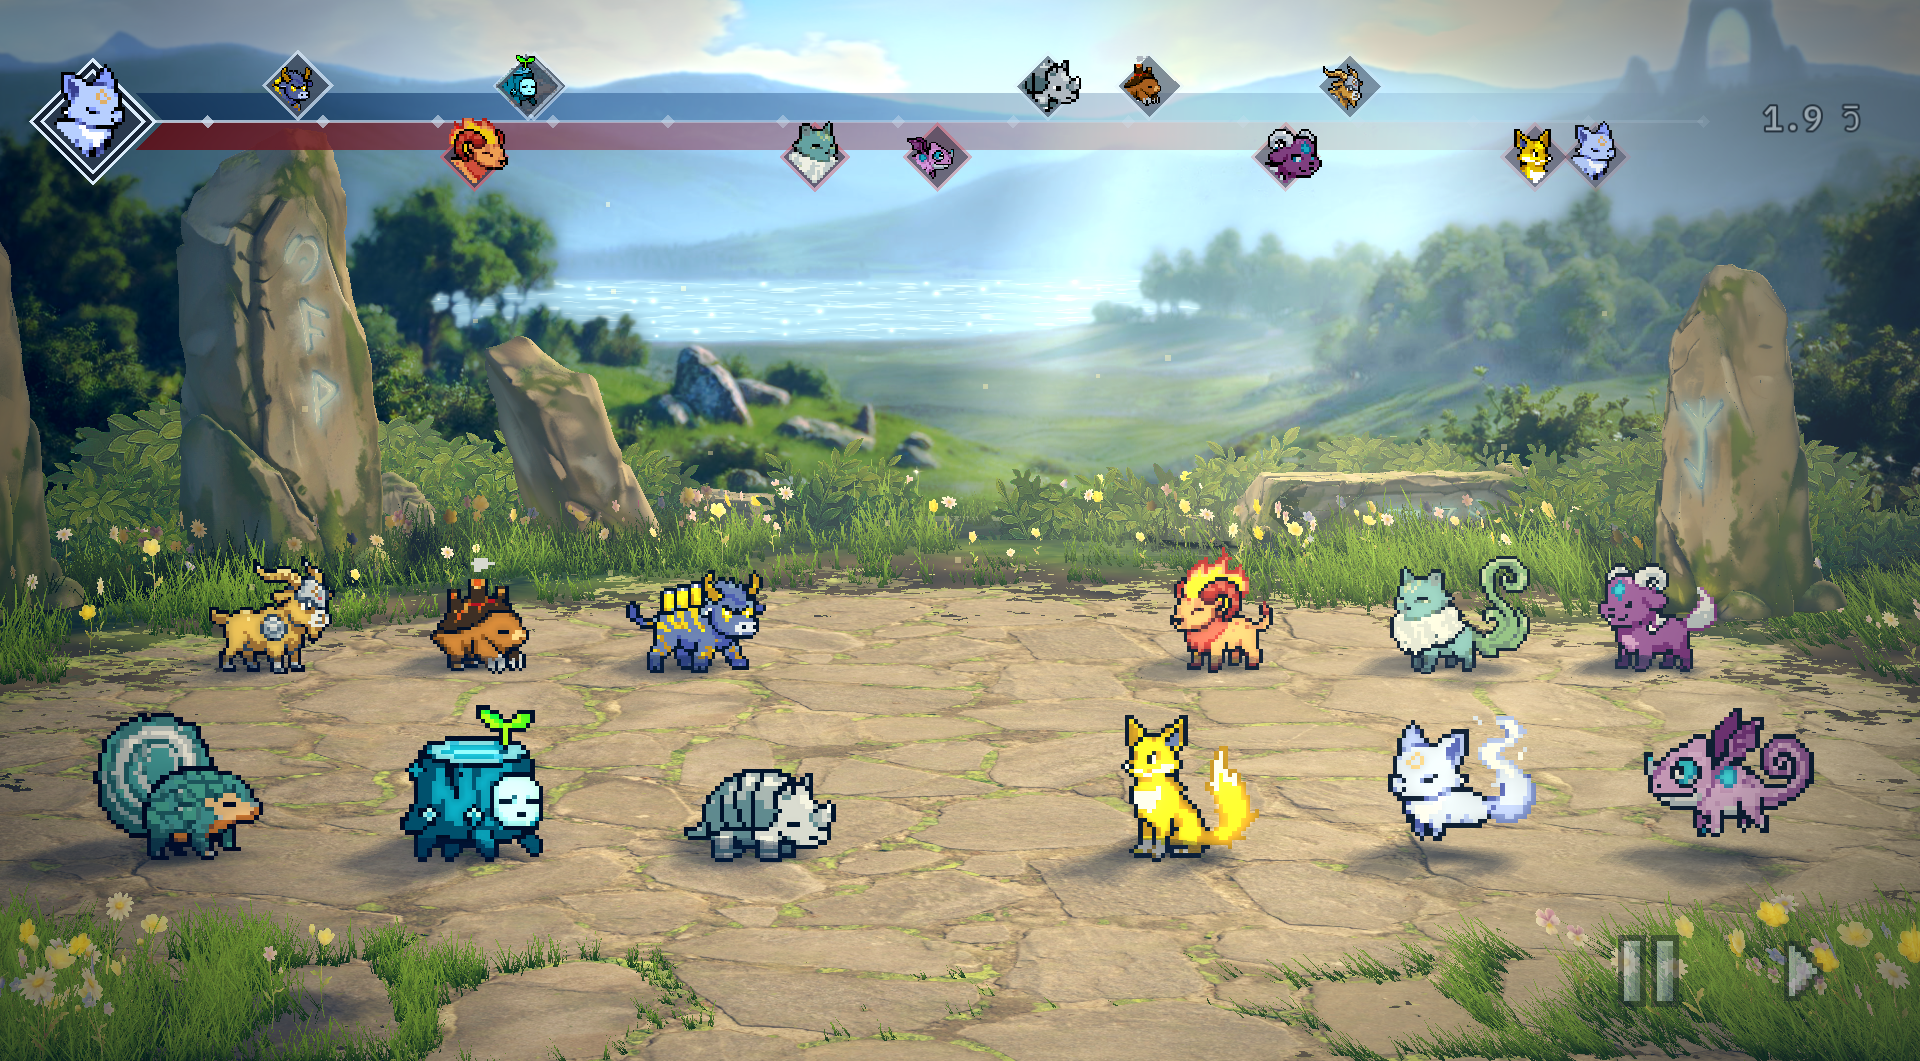
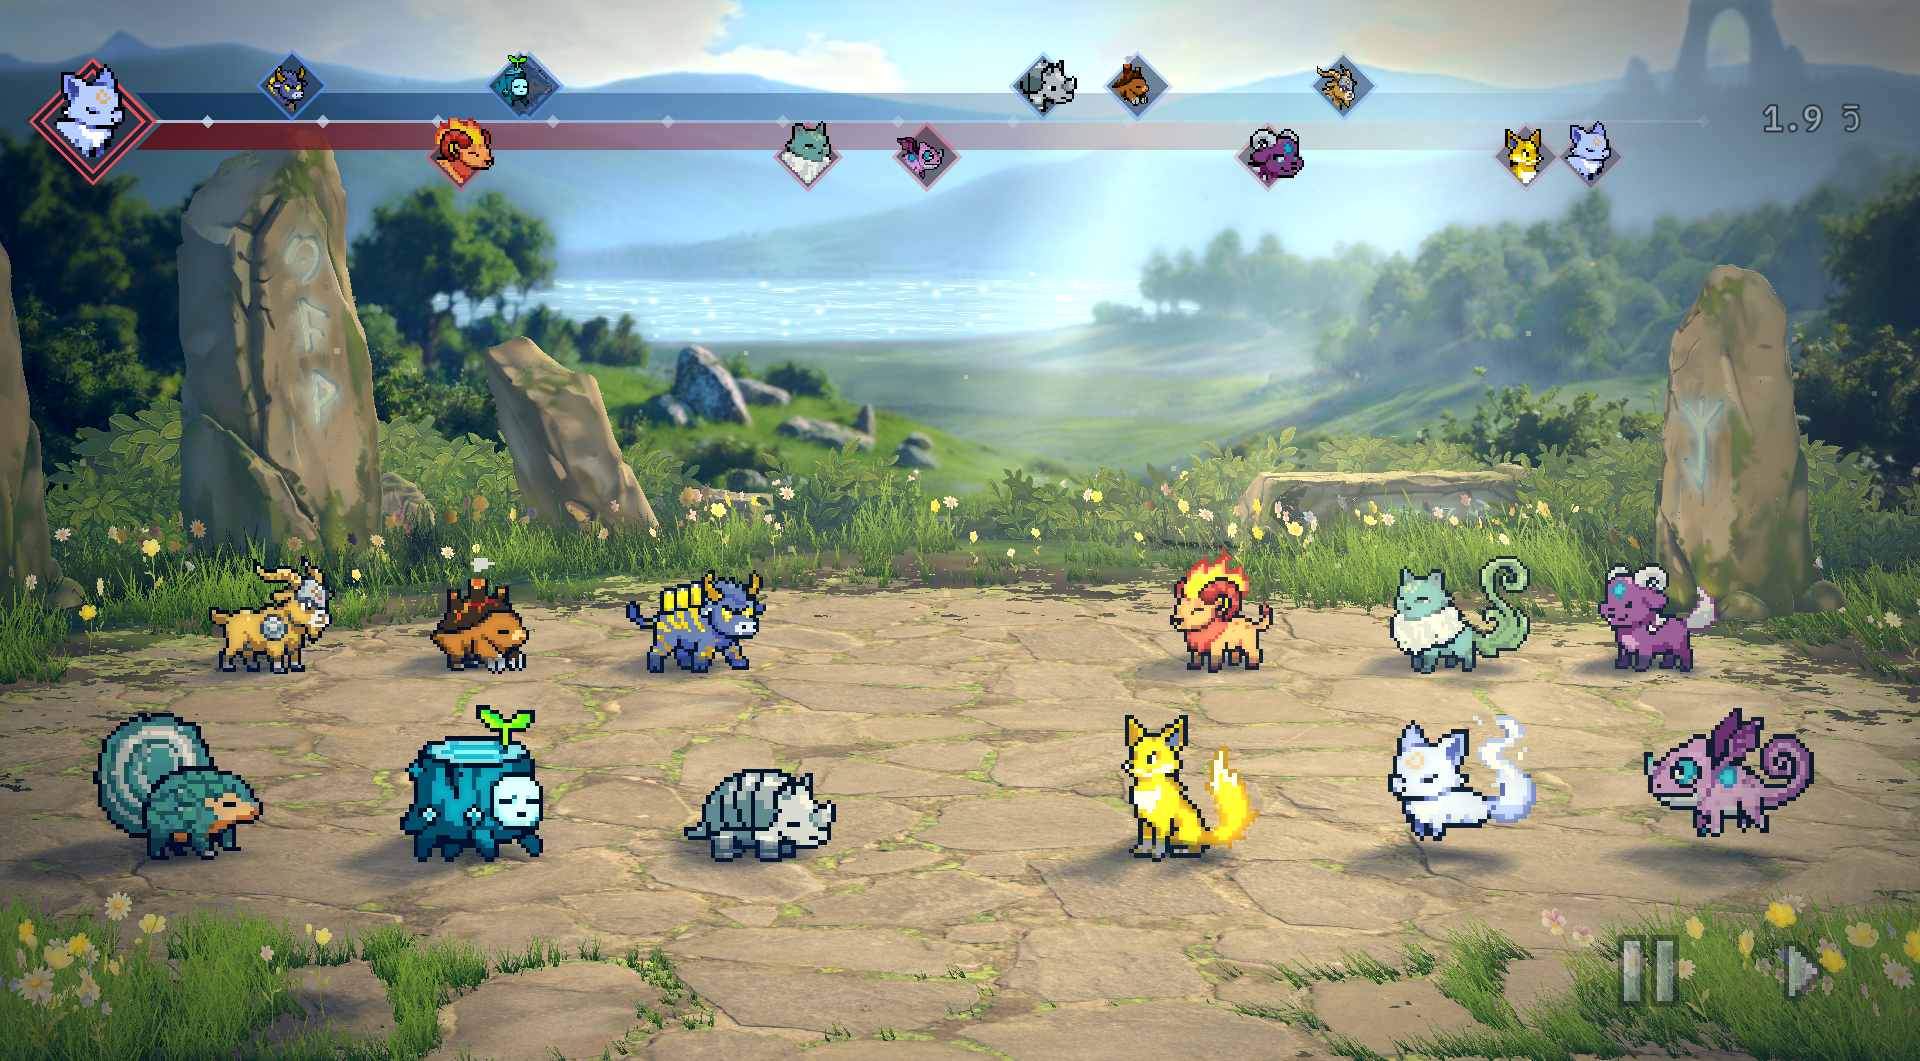
set 268 round 23: act diamond rings = side colours (inner = unit in slot, outer = previous), own side blue

diff --git a/claude/preview-set268/s268r23-patch-actring.py b/claude/preview-set268/s268r23-patch-actring.py
@@ -1,0 +1,27 @@
+# set 268 round 23 — owner: act diamond rings carry side colours. Inner ring = side colour of the unit now in the slot
+# (the last arrival), outer ring = side colour of the unit before it; on a new arrival both shift outward with the
+# round 21 crossfade. Own side colour white -> blue (portrait frames too). Foe stays red.
+# usage: python s268r23-patch-actring.py <g268>   (after s268r20-patch-tl-smooth.py)
+import os, sys
+p = os.path.join(sys.argv[1], "scripts", "ui", "s268_timeline.gd")
+s = open(p, encoding="utf-8").read()
+if "s268r23" not in s:
+    a = "const OWN_COL := Color(0.86, 0.92, 0.98)\n"
+    assert a in s
+    s = s.replace(a, "const OWN_COL := Color(0.30, 0.56, 0.95)   # s268r23: own side = blue (was white 0.86, 0.92, 0.98)\n")
+    a = ("	draw_polyline(_diamond(ac, ar + 6.0) + PackedVector2Array([ac + Vector2(0, -ar - 6.0)]), OWN_COL, 1.5)\n"
+         "	draw_colored_polygon(_diamond(ac, ar + 2.0), OWN_COL)\n")
+    assert a in s
+    b = ("	# s268r23 (owner): inner ring = side of the unit in the slot, outer = side of the one before; shift out on arrival\n"
+         "	var ring_in := Color(0.86, 0.92, 0.98); var ring_out := Color(0.86, 0.92, 0.98)\n"
+         "	if not items.is_empty():\n"
+         "		var sc := func(it: Array) -> Color: return FOE_COL if int(it[1][\"side\"]) == 1 else OWN_COL\n"
+         "		var tin := smoothstep(0.93, 1.0, float(items[items.size() - 1][0]))   # same crossfade as the icon (round 21)\n"
+         "		var cur: Color = sc.call(items[0]); var prv: Color = sc.call(items[1] if items.size() > 1 else items[0])\n"
+         "		ring_in = cur.lerp(sc.call(items[items.size() - 1]), tin)\n"
+         "		ring_out = prv.lerp(cur, tin)\n"
+         "	draw_polyline(_diamond(ac, ar + 6.0) + PackedVector2Array([ac + Vector2(0, -ar - 6.0)]), ring_out, 1.5)\n"
+         "	draw_colored_polygon(_diamond(ac, ar + 2.0), ring_in)\n")
+    s = s.replace(a, b)
+    open(p, "w", encoding="utf-8").write(s)
+print("ok")

diff --git a/claude/preview-set268/notes.md b/claude/preview-set268/notes.md
@@ -114,3 +114,7 @@ ui-patterns: references = battle screen (this set, owner-locked) for feel · Oct
 ## Round 24 (s268r24-patch-popups.py + shoot_pc_r24.sh) — owner: "go on — popups + name screen; no phone size yet"
 37. (round 24, pending) Popups follow the locked look: dialog = dark sheet #16202a 90 %, thin white line top + bottom only (rune offer = gold line), no side frame, no drop shadow · dim = ink blue 50 % (was brown) · inner cards (rune cards, offer cards) = the shop-card bottom band (reads as no box on the dark sheet) · unit card = same sheet · text input = clear with a white underline (focus frame kept) · credits sheet = same. Shots R24-pc-p1_tribes · p2_legend · p3_card · p4_offer · p5_name. Harness: POPS=1 in s239_prep.gd opens them on the prep screen.
 Open for the owner: the name screen still sits on the plain navy app background (no arena behind) — the one screen that does not show the scene. Tells: navy gradient background + centred title (name screen only). Not done: phone size (owner: later), match details popup (mx), run log popup.
+
+## Round 23 (s268r23-patch-actring.py, after s268r22c) — owner crop of the act diamond: "inner ring = colour of the unit that arrived; when a new one comes it moves to the outer ring; our side blue"
+36. (round 23, pending) Act diamond rings carry side colours: inner (solid, r 24) = side of the unit now in the slot, outer (thin, r 28) = side of the one before it; on each arrival both shift outward with the round 21 crossfade (last 7 %) · own side colour white → blue #4d8ff2 (Color 0.30, 0.56, 0.95) for the act rings AND the running own portrait frames · foe stays red. Shots R23-pc-1_battle.png · R23-zoom.png; motion = `sh live_r23.sh`.
+Guess: "สีฝั่งเรา" read as every own-side frame on the timeline (running portraits too), not only the act rings.
